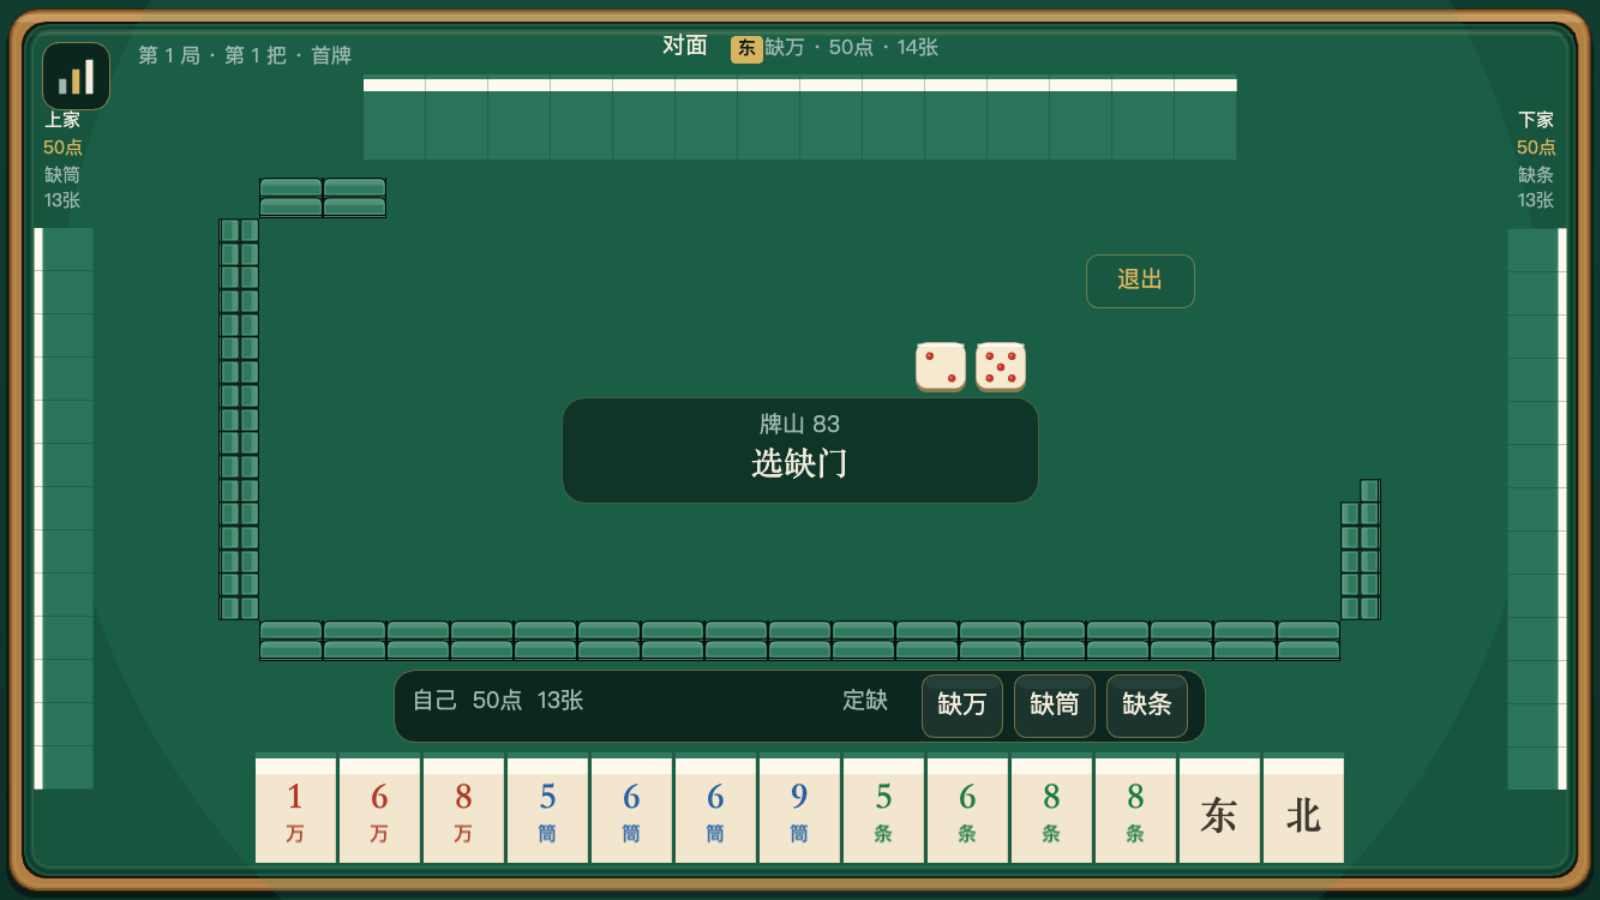
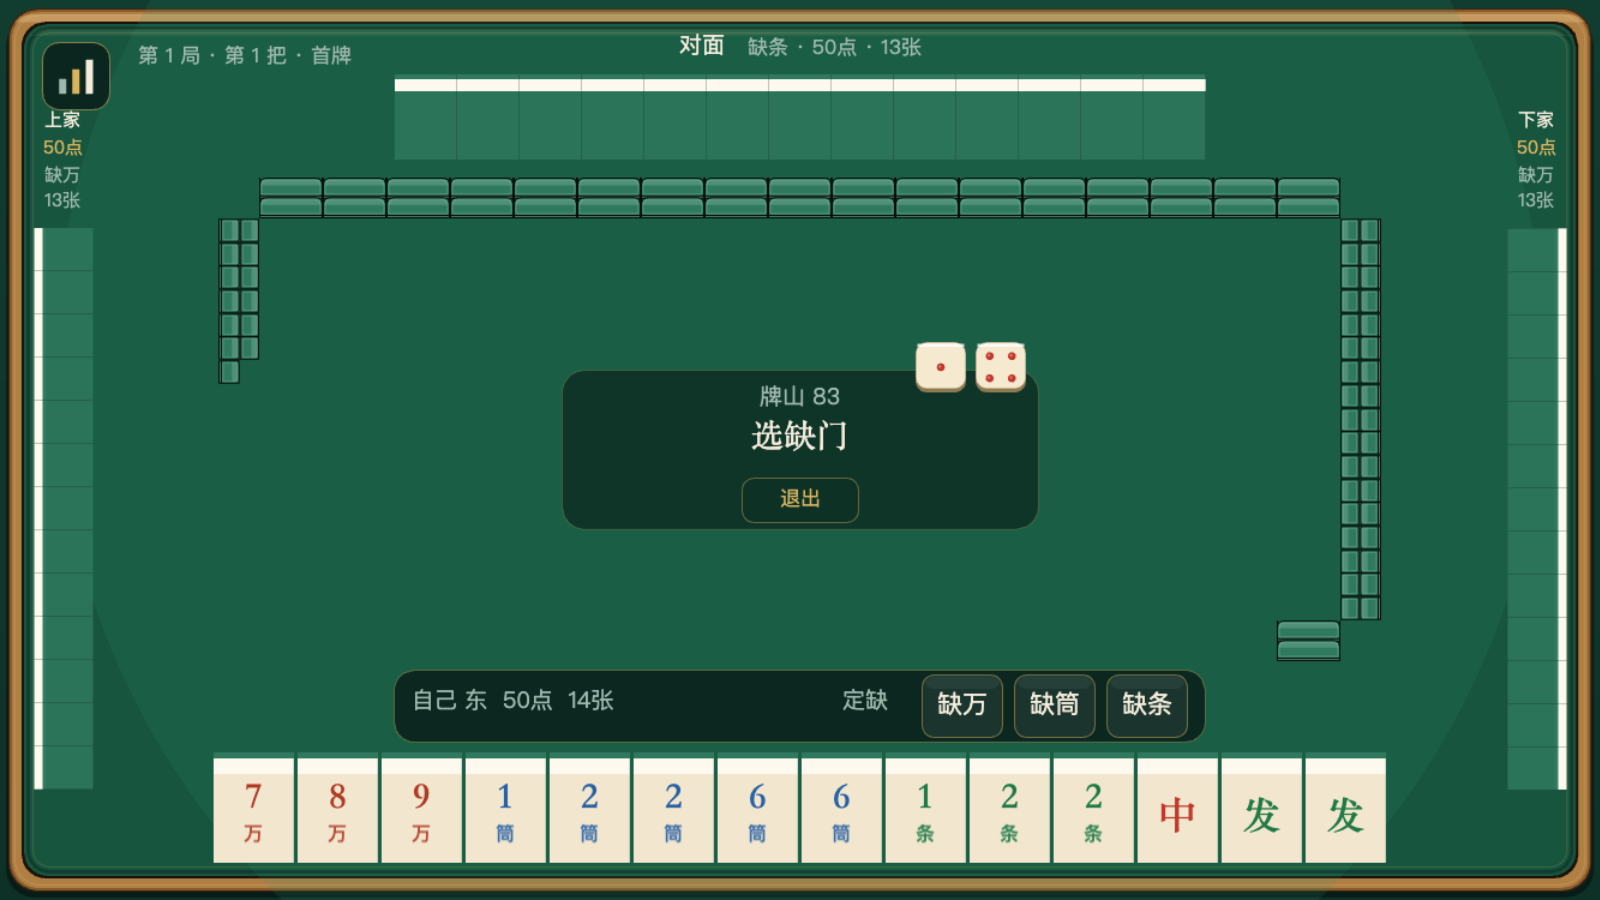
fix(layair): 打牌退出按钮收进中央提示面板
去掉右上角悬浮退出，改到中间提示信息面板底部居中，避开微信右上角胶囊和侧家信息。

diff --git a/layair/src/ui/TableView.ts b/layair/src/ui/TableView.ts
@@ -967,10 +967,11 @@ export class TableView {
     const m = this.m
     const hand = this.hand
     const px = Math.round(m.boardW / 2 - m.panelW / 2)
-    const py = Math.round(m.boardH / 2 - m.panelH / 2)
+    const panelH = m.panelH + this.u(24)
+    const py = Math.round(m.boardH / 2 - panelH / 2)
 
     if (this.phase === 'rolling') {
-      const panel = makePanel(m.panelW, m.panelH, this.u(10), 'rgba(7,28,23,0.62)', 'rgba(217,180,95,0.22)')
+      const panel = makePanel(m.panelW, panelH, this.u(10), 'rgba(7,28,23,0.62)', 'rgba(217,180,95,0.22)')
       panel.pos(px, py)
       this.content.addChild(panel)
       this.content.addChild(
@@ -989,7 +990,7 @@ export class TableView {
 
     if (!hand || hand.phase === 'over') return
 
-    const panel = makePanel(m.panelW, m.panelH, this.u(10), 'rgba(7,28,23,0.62)', 'rgba(217,180,95,0.22)')
+    const panel = makePanel(m.panelW, panelH, this.u(10), 'rgba(7,28,23,0.62)', 'rgba(217,180,95,0.22)')
     panel.pos(px, py)
     this.content.addChild(panel)
 
@@ -1045,6 +1046,17 @@ export class TableView {
         })
       )
     }
+
+    const exit = makeButton({
+      width: this.u(52),
+      height: this.u(20),
+      label: '退出',
+      fontSize: this.u(9),
+      face: 'ghost',
+      onClick: () => this.requestExit()
+    })
+    exit.pos(Math.round(px + (m.panelW - this.u(52)) / 2), Math.round(py + panelH - this.u(23)))
+    this.content.addChild(exit)
   }
 
   /** 左上角：第几局第几把（原来在中央面板里，挪出来让中间更小） */
@@ -1640,6 +1652,17 @@ export class TableView {
       )
     }
 
+    const exit = makeButton({
+      width: this.u(52),
+      height: this.u(18),
+      label: '退出',
+      fontSize: this.u(9),
+      face: 'ghost',
+      onClick: () => this.requestExit()
+    })
+    exit.pos(Math.round(px + (pillW - this.u(52)) / 2), Math.round(py + pillH + this.u(4)))
+    this.content.addChild(exit)
+
     if (hand.threeToOneSeat !== null) {
       this.content.addChild(
         makeText(this.threeToOneLabel(), {
@@ -1931,19 +1954,6 @@ export class TableView {
 
     if (this.is3D()) this.appendDock3DActions(items, hand, myTurn)
     this.renderDockBar(items)
-
-    if (this.phase === 'playing' && hand.phase !== 'over') {
-      const exit = makeButton({
-        width: this.u(48),
-        height: this.u(24),
-        label: '退出',
-        fontSize: this.u(10),
-        face: 'ghost',
-        onClick: () => this.requestExit()
-      })
-      exit.pos(Math.round(m.ringX + m.ringW - this.u(130)), Math.round(m.ringY + this.u(34)))
-      this.content.addChild(exit)
-    }
   }
 
   private renderDockBar(items: Array<Laya.Sprite | Laya.Text>) {
@@ -2455,10 +2465,11 @@ export class TableView {
     const seat = next.threeToOneSeat
     if (seat === null) return
     if (prev && prev.threeToOneSeat === seat) return
+    const alreadyListening = isTenpaiHand(next.players[seat]) ? '，已听牌' : ''
     this.flash(
       seat === 0
-        ? `三打一 · 亮出${next.threeToOneSuit ?? '牌'}，其余手牌不亮`
-        : `三打一 · ${SEAT_NAMES[seat]}亮${next.threeToOneSuit ?? '牌'}`
+        ? `三打一 · 亮出${next.threeToOneSuit ?? '牌'}，其余手牌不亮${alreadyListening}`
+        : `三打一 · ${SEAT_NAMES[seat]}亮${next.threeToOneSuit ?? '牌'}${alreadyListening}`
     )
   }
 
